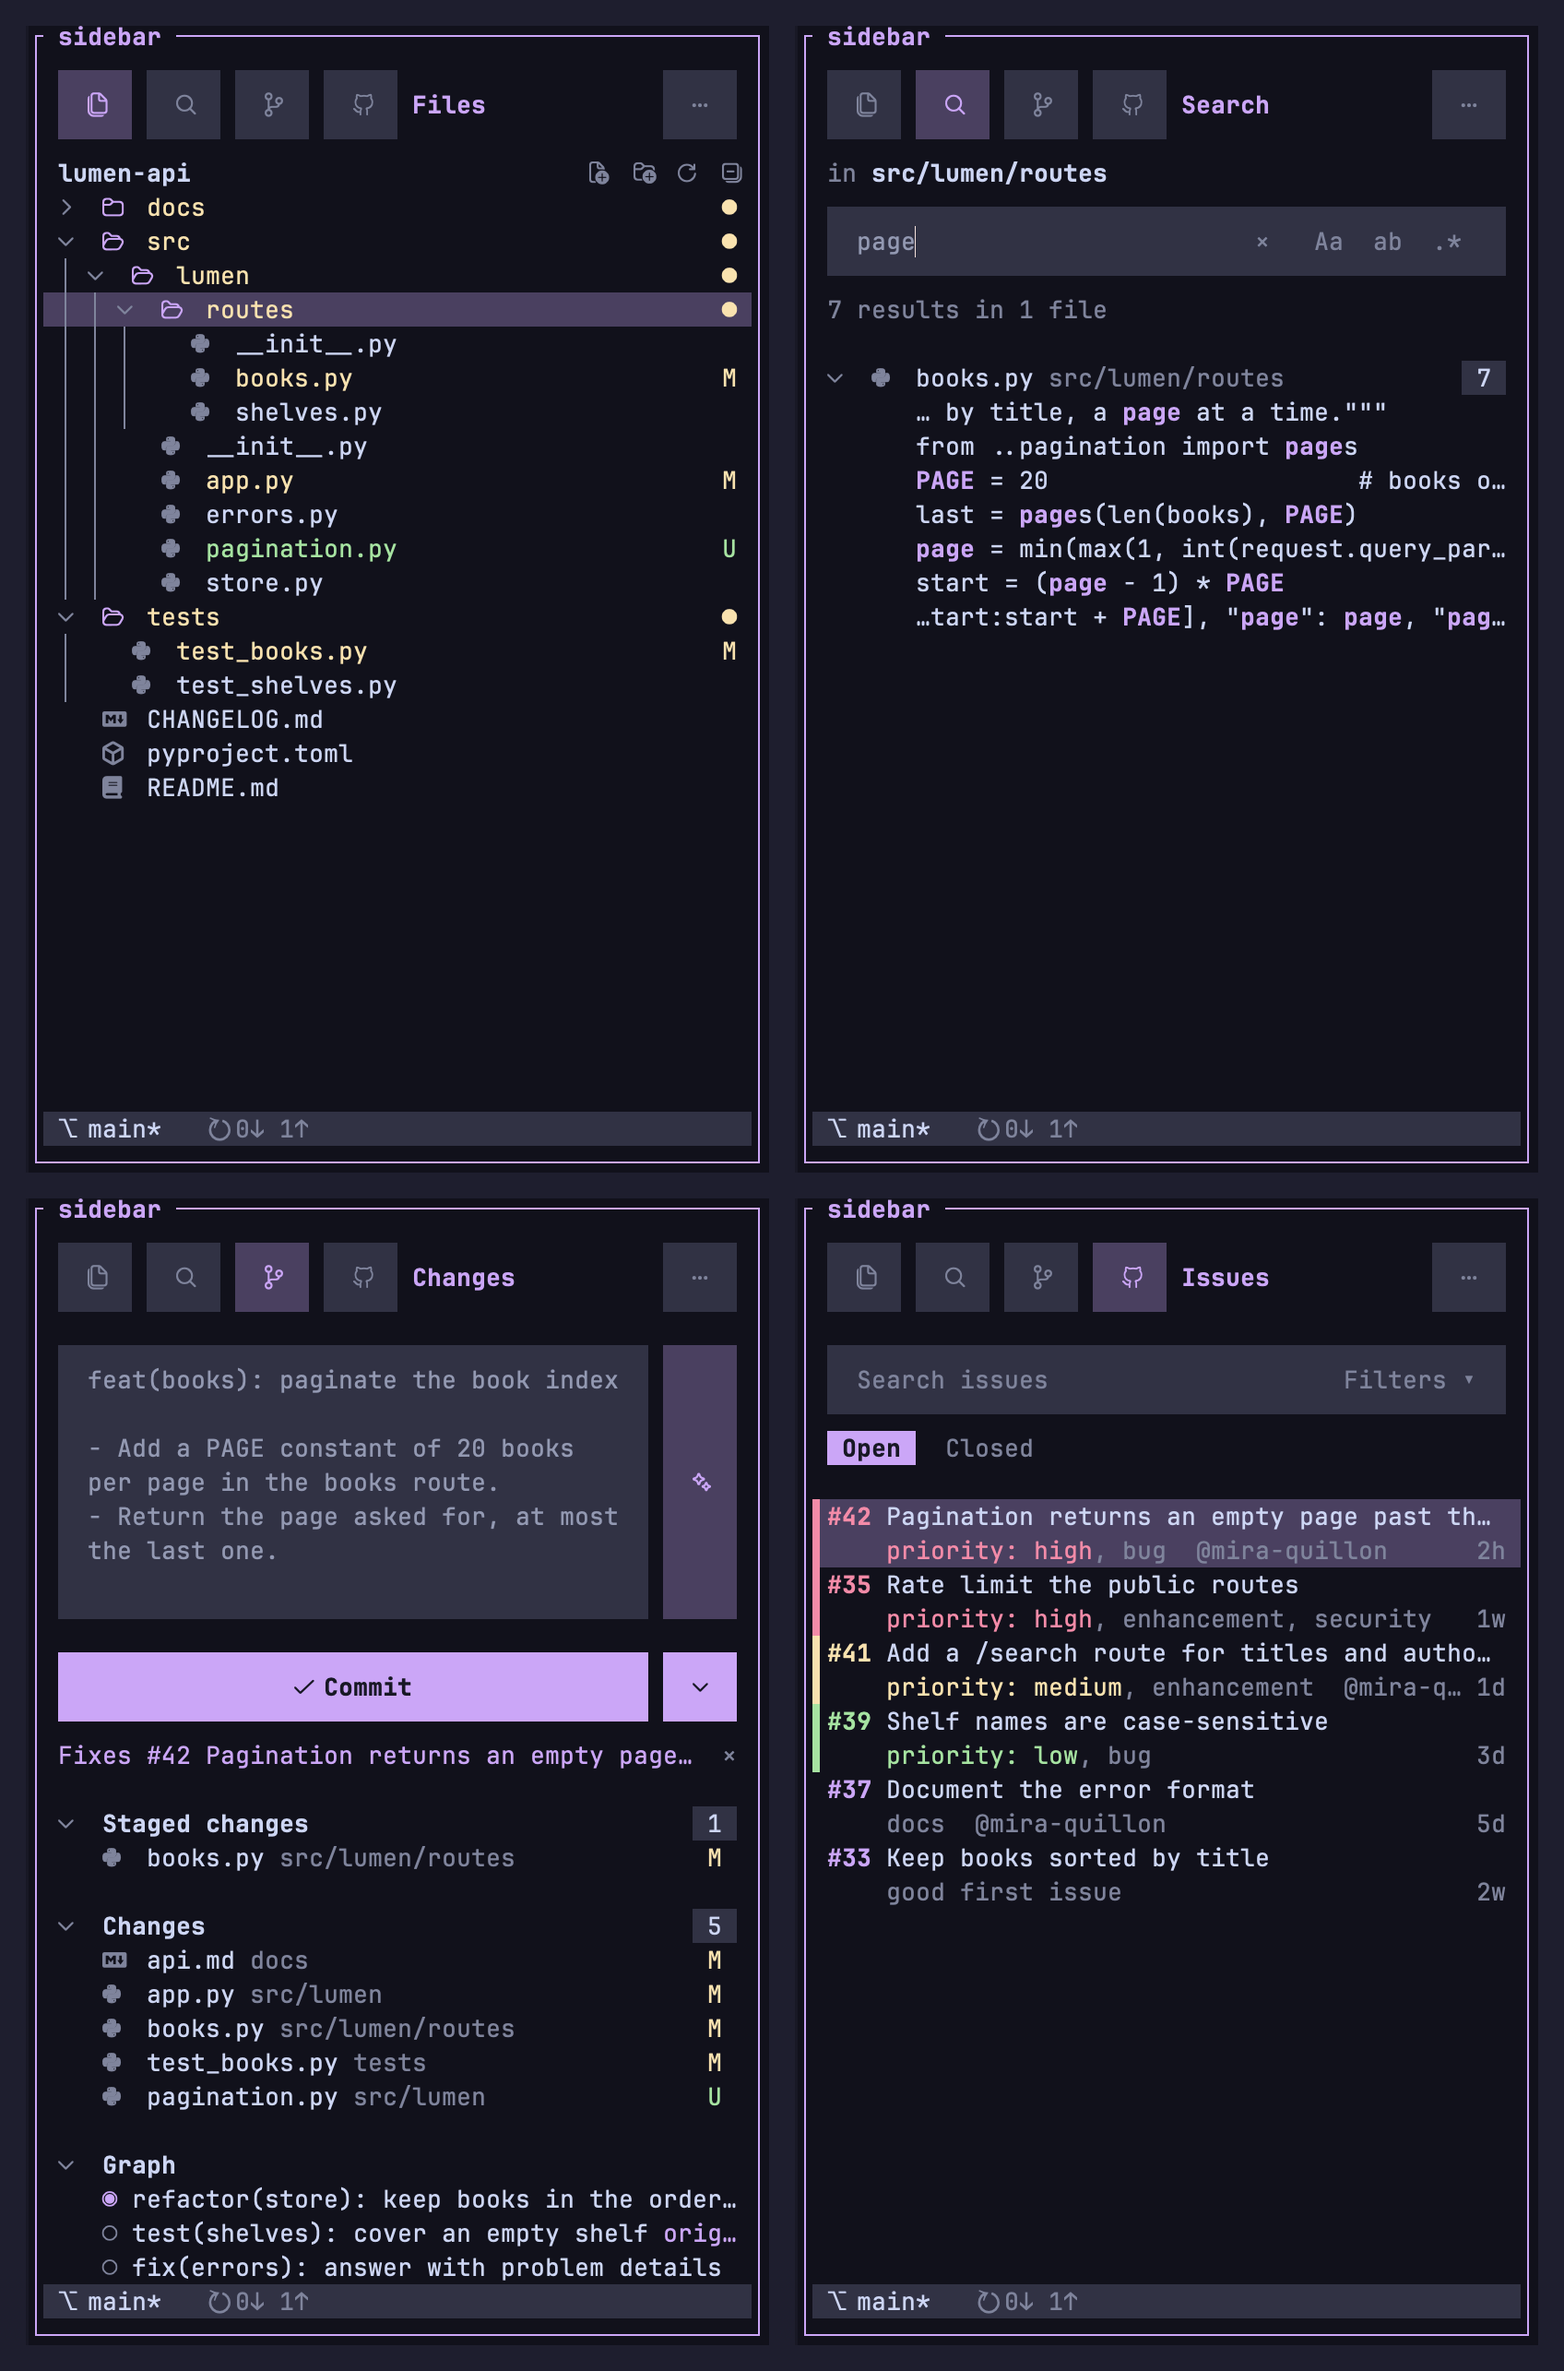
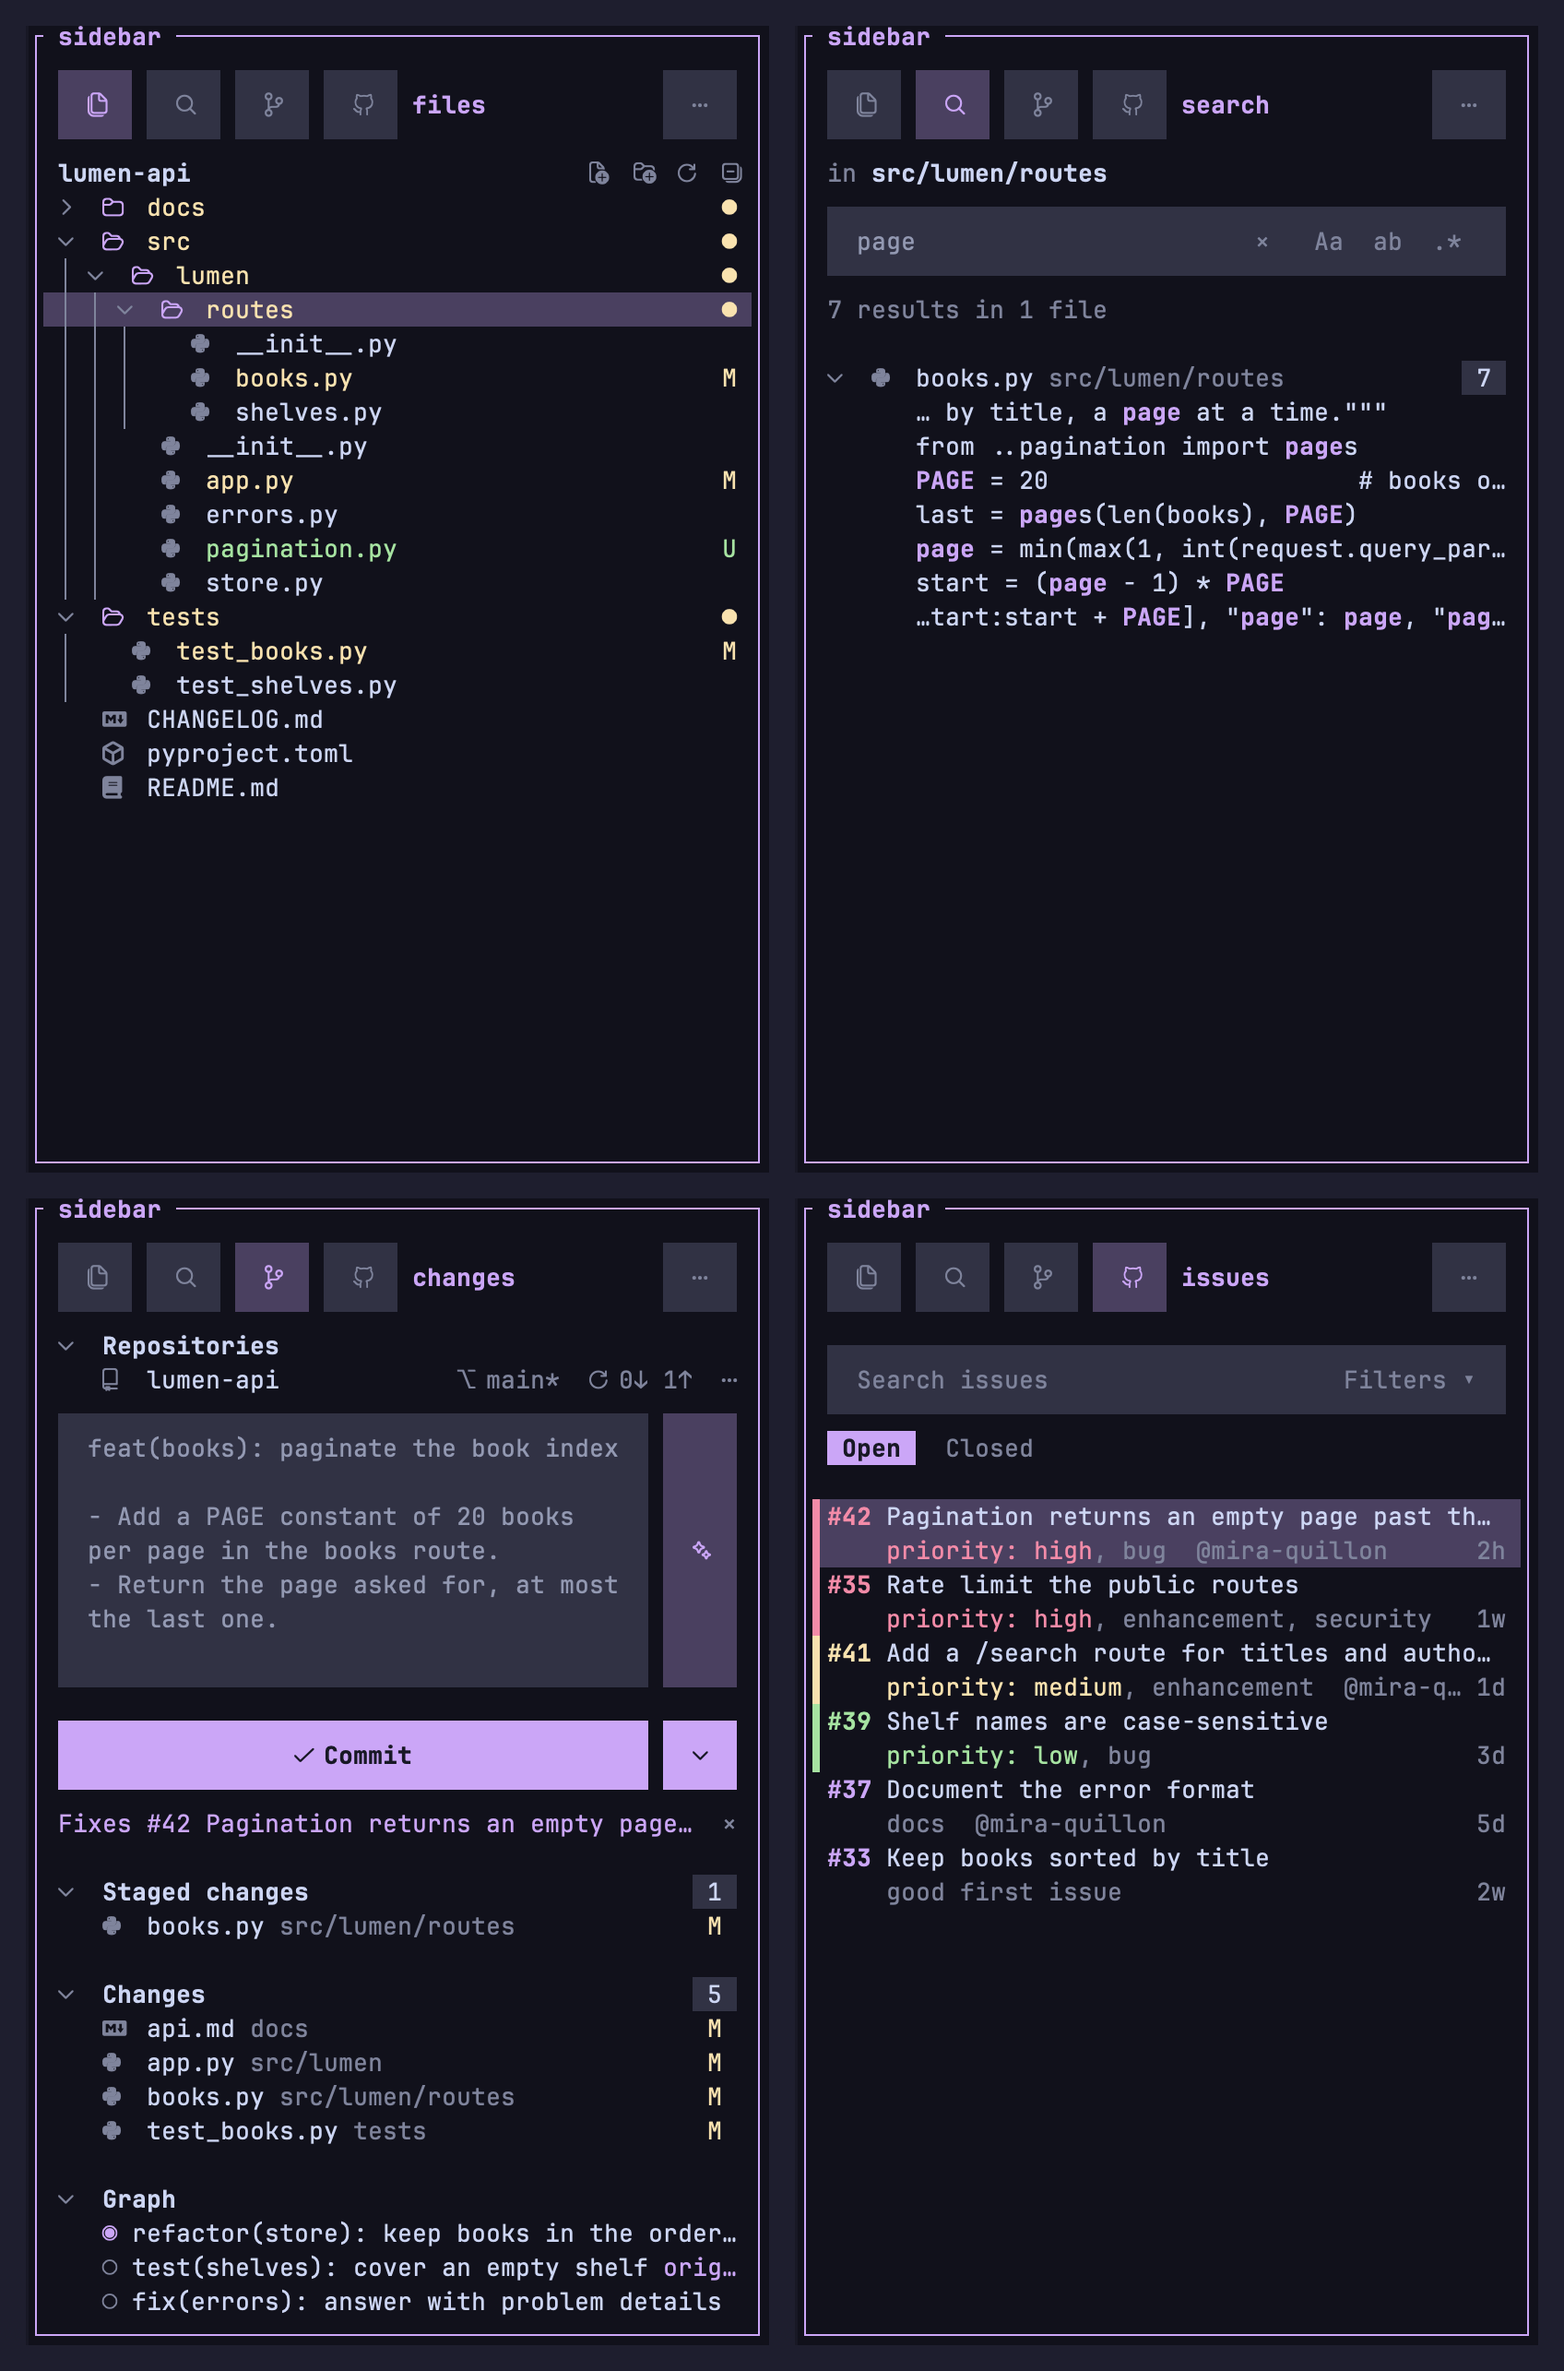
docs(sidebar): show the four views as they are now
- Shoot the sidebar's picture again: the views named in lowercase,
  the repository on top in Changes, no status bar at the bottom
- Name the repository row in the picture's text

Changed region(s): [[0.0312, 0.5603, 0.9688, 0.9961], [0.0312, 0.4669, 0.9688, 0.4981]]

diff --git a/docs/sidebar.md b/docs/sidebar.md
@@ -6,8 +6,9 @@ macOS, Linux and Windows. Its keys, what it reads and writes on the machine, and
 [its README](../src/plugins/sidebar/README.md). This page is what
 herdr-fold does with it.
 
-![The four views: Files with its git marks, Search narrowed to the folder chosen in Files, Changes with the message
-Claude wrote, the issue it fixes and the Graph, Issues by priority](../assets/screenshots/sidebar.webp)
+![The four views: Files with its git marks, Search narrowed to the folder chosen in Files, Changes with the repository
+on top, the message Claude wrote, the issue it fixes and the Graph, Issues by
+priority](../assets/screenshots/sidebar.webp)
 
 ![A diff in the preview tab, its lines numbered, the tab laid out as the one it was opened
 from](../assets/screenshots/preview.webp)
